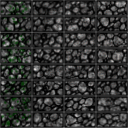
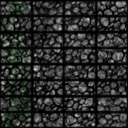
grid size input as argv[1], modified demo scene

Changed region(s): [[0.0, 0.0, 1.0, 1.0]]

diff --git a/stumble.cc b/stumble.cc
@@ -7,42 +7,49 @@
 #include "stumble.h"
 
 int main(int argc, char *argv[]) {
+    int gs = 32;
+    if(argc > 1) 
+        gs = atoi(argv[1]);
     
     // Create engine objects
+    Grid *grid          = new Grid(gs, 0xff101010, 0xff000000);
     World *world        = new World(b2Vec2(0.0f, 5.0f));
-    Graphics *graphics  = new Graphics( new Grid(64, 0xff101010, 0xff000000) );
+    Graphics *graphics  = new Graphics(grid);
     Control *control    = new Control();
     Clock *clock        = new Clock();
 
     // Load textures and create sprites
     Spritesheet *bricks = graphics->CreateSpritesheet("assets/brick.png", 16, 16, 2, 5);
+    Spritesheet *bricks2= graphics->CreateSpritesheet("assets/brick2.png",16, 16, 4, 4);
     Spritesheet *rocks  = graphics->CreateSpritesheet("assets/rocks.png", 32, 16, 4, 8);
     Spritesheet *items  = graphics->CreateSpritesheet("assets/items.png", 16, 16, 4, 4);
     Spritesheet *tests  = graphics->CreateSpritesheet("assets/test.png",  32, 32, 2, 2);
-	//                                ords, size, amt
-    Sprite *crate = bricks->GetSprite(1, 0, 1, 1, 1, 1);
-    Sprite *brick = bricks->GetSprite(0, 0, 1, 1, 1, 4);
-    Sprite *rock  =  rocks->GetSprite(0, 0, 2, 1, 4, 8);
-    Sprite *test  =  tests->GetSprite(0, 0, 1, 1, 1, 1);
+	//                                 ords, size, amt
+    Sprite *brick = bricks2->GetSprite(0, 0, 1, 1, 4, 4);
+    Sprite *crate =  bricks->GetSprite(1, 0, 1, 1, 1, 1);
+    Sprite *rock  =   rocks->GetSprite(0, 0, 2, 1, 4, 8);
+    Sprite *test  =   tests->GetSprite(0, 0, 1, 1, 1, 1);
 
-	Character *player = new Character(world, items);
-    world->characters[world->characterCount++] = player;
+	//Character *player = new Character(world, items);
+    //world->characters[world->characterCount++] = player;
 
+    int tx = SCR_W/grid->size;
+    int ty = SCR_H/grid->size;
     // Create tiles
-    for(int i = 0; i < 12; i++)
-		world->AddTile(brick, i, 10);
+    for(int x = 0; x < tx; x++)
+        for(int y = ty-4; y < ty; y++)
+            world->AddTile(brick, x, y);
 
-    // Create game objects
-    for(int i = 0; i < 6; i++)
-		world->AddEntity(rock, 2, i*2.0f, 0, 0);
+    // Create some game objects
+    for(int y = ty-12; y < ty-5; y++)
+		world->AddEntity(rock, 2, y, 0, 0);
 
-    for(int i = 0; i < 16; i++) {
-		world->AddEntity(crate, 9-i, 6-i, 0, 0);
-		world->AddEntity(crate, 11-i,6-i, -2, 0);
-    }
+    for(int y = 0; y < 4; y++)
+        for(int x = 0; x < tx; x+=4)
+            world->AddEntity(crate, x, y, 0, 0);
 
     // Accept input
-    while(control->GetInput(player)) {
+    while(control->GetInput((Character*)NULL)) { // FIXME
         int t = clock->Sleep();         // Delay to maintain FPS
                 world->Update(t);       // Update the game world
                 graphics->Draw(world);  // Draw to the screen
